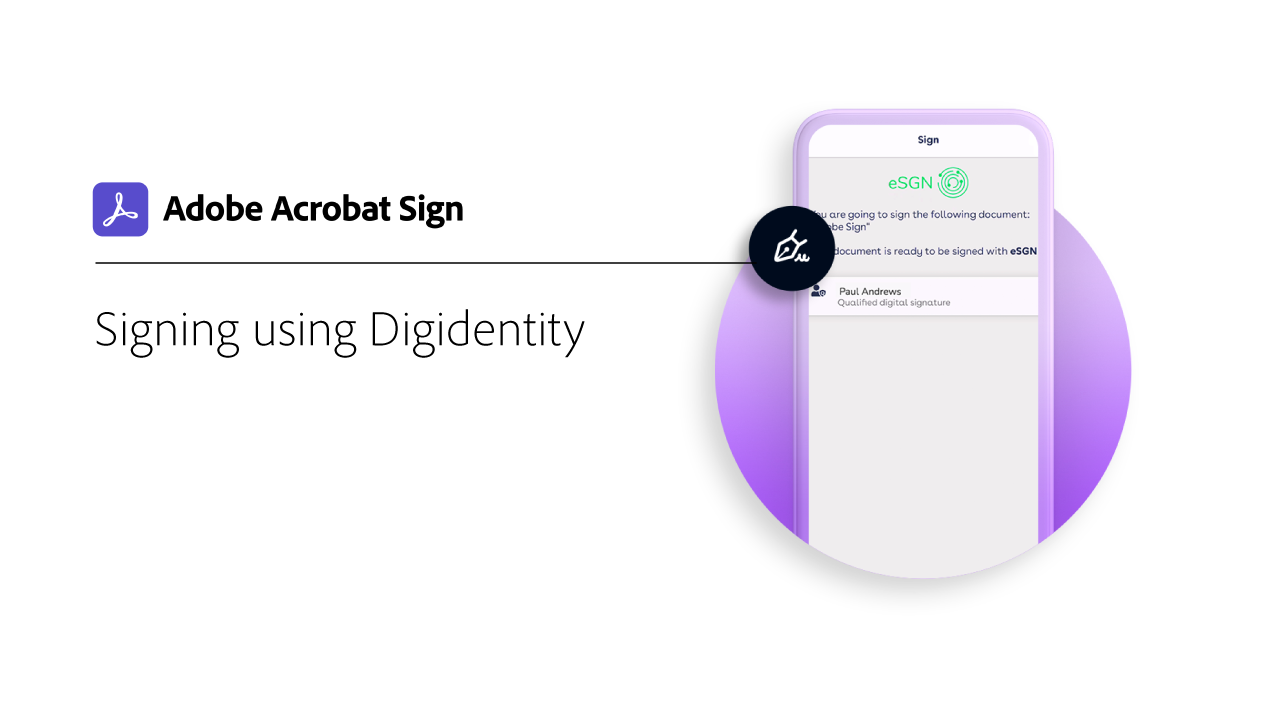
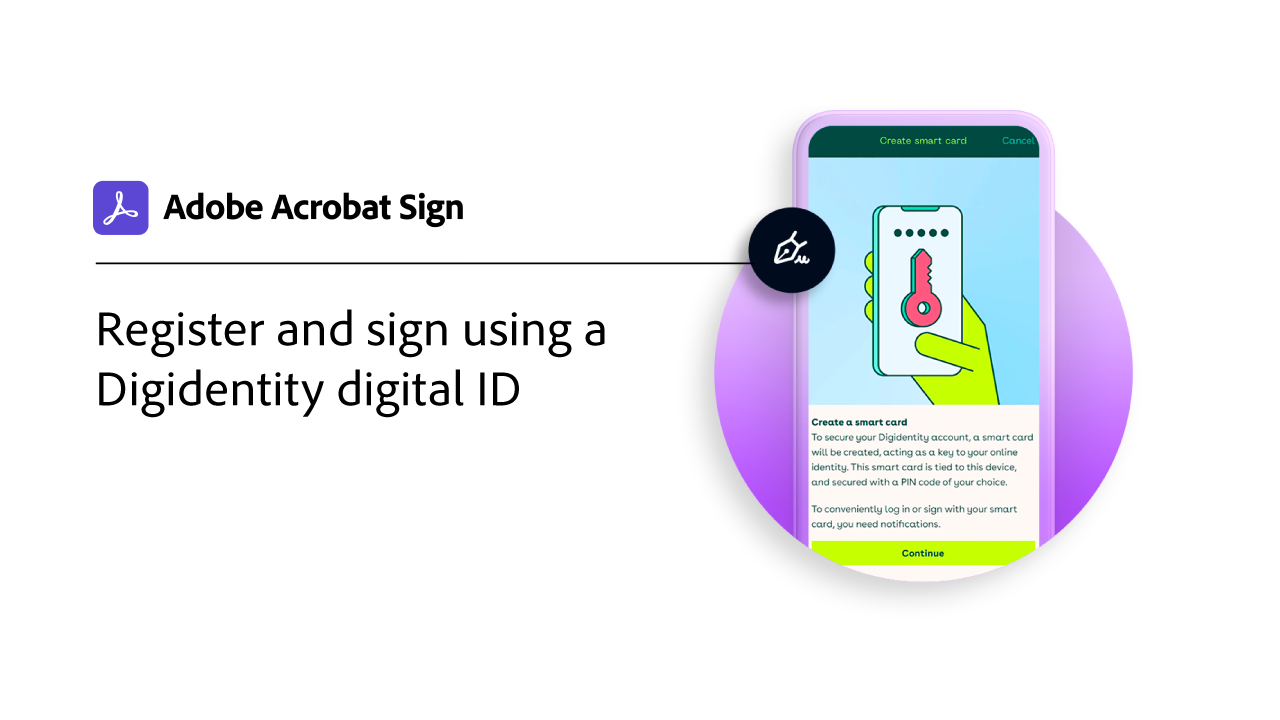
Updated Digidentity tutorial

diff --git a/help/sign/digitalid/digidentity-sign.md b/help/sign/digitalid/digidentity-sign.md
@@ -1,6 +1,6 @@
 ---
-title: Signing using [!DNL Digidentity]
-description: Learn how to use your [!DNL Digidentity] digital ID with Acrobat Sign
+title: Register and sign using a [!DNL Digidentity] digital ID
+description: Learn how to register and use your [!DNL Digidentity] digital ID with Acrobat Sign
 role: User
 product: adobe sign
 solution: Acrobat Sign
@@ -9,8 +9,10 @@ thumbnail: KT-8670.jpg
 kt: 8670
 exl-id: 4c1641bc-3298-45f0-95ed-7071e6158e5e
 ---
-# Signing using [!DNL Digidentity]
+# Register and sign using a [!DNL Digidentity] digital ID
 
-Learn how to use your [!DNL Digidentity] digital ID to authenticate your identity and authorize a remote digital signature (cloud signature) on a document.
+Digidentity is an EU qualified trust service provider (QTSP). Digidentity identification and onboarding process relies on the Digidentity mobile app and requires use of an identity document with an embedded NFC chip as well as an NFC-compatible mobile device. The Digidentity process is completely self-service and is available 24/7/365, with no "human in the loop". In most cases, takes as little as 5-10 minutes to complete registration.
+
+This video tutorial details the user journey from receipt of the registration invitation email to using a digital ID to authenticate and apply a cloud signature in Adobe Acrobat Sign.
 
 >[!VIDEO](https://video.tv.adobe.com/v/336991?hidetitle=true)

diff --git a/help/sign/digitalid/digitalid-overview.md b/help/sign/digitalid/digitalid-overview.md
@@ -59,24 +59,19 @@ Similar to a passport in electronic form, a digital identity (digital ID) allows
 
 <table style="table-layout:fixed">
 <tr>
- <td>
-    <a href="digidentity-reg.md">
-      <img alt="Get a digital ID from [!DNL Digidentity]" src="assets/Digidentityreg_1280.png" />
+  <td>
+    <a href="digidentity-sign.md">
+      <img alt="Register and sign using a [!DNL Digidentity] digital ID" src="assets/Digidentitysign_1280.png" />
     </a>
     <div>
-    <a href="digidentity-reg.md"><strong>Get a digital ID from [!DNL Digidentity]</strong></a>
+    <a href="digidentity-sign.md"><strong>Register and sign using a [!DNL Digidentity] digital ID</strong></a>
     </div>
-    <em>Learn how to obtain a digital signing certificate from [!DNL Digidentity]</em>
+    <em>Learn how to register and use your [!DNL Digidentity] digital ID with Acrobat Sign</em>
     <br>
   </td>
   <td>
-    <a href="digidentity-sign.md">
-      <img alt="Signing using [!DNL Digidentity]" src="assets/Digidentitysign_1280.png" />
-    </a>
+    <img alt="Spacer" src="../assets/Whitespacer.png" />
     <div>
-    <a href="digidentity-sign.md"><strong>Signing using [!DNL Digidentity]</strong></a>
-    </div>
-    <em>Learn how to use your [!DNL Digidentity] digital ID with Acrobat Sign</em>
     <br>
   </td>
   <td>

diff --git a/help/sign/TOC.md b/help/sign/TOC.md
@@ -77,8 +77,7 @@ breadcrumb-title: Acrobat Sign Tutorials
   + Aadhaar {#aadhaar}
     + [Signing using Aadhaar](digitalid/aadhaar-sign.md)
   + Digidentity {#digidentity}
-    + [Get a digital ID from Digidentity](digitalid/digidentity-reg.md)
-    + [Signing using Digidentity](digitalid/digidentity-sign.md)
+    + [Register and sign using a [!DNL Digidentity] digital ID](digitalid/digidentity-sign.md)
   + D-Trust {#dtrust}
     + [Register and sign using [!DNL D-Trust]](digitalid/d-trust.md)
   + Intesi Group {#intesi}
